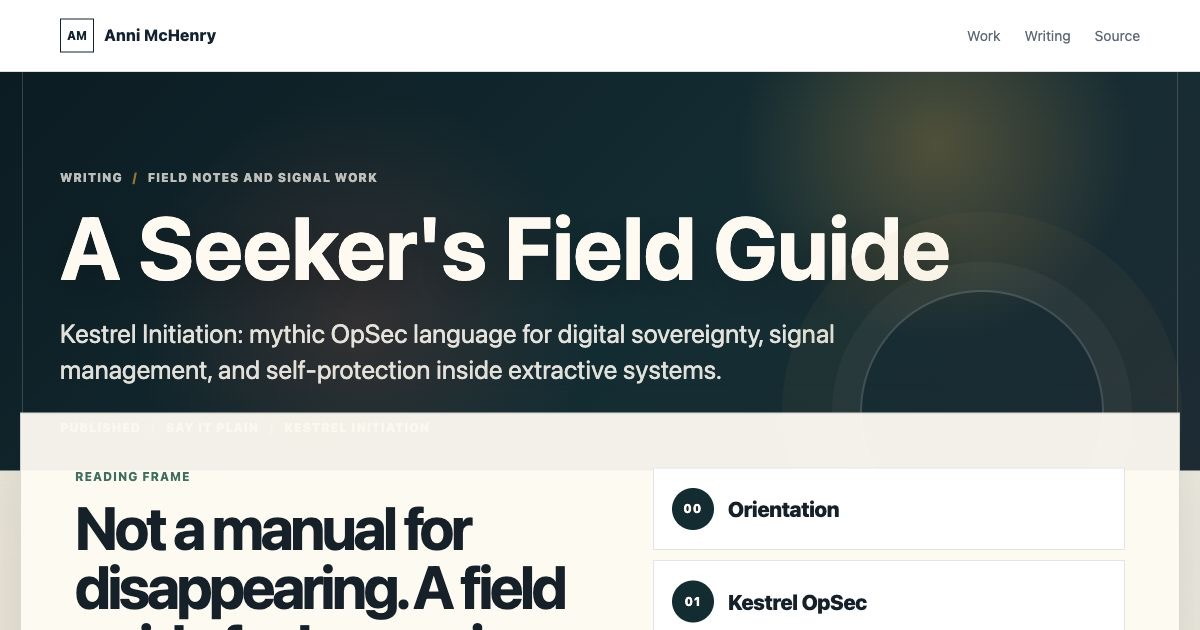
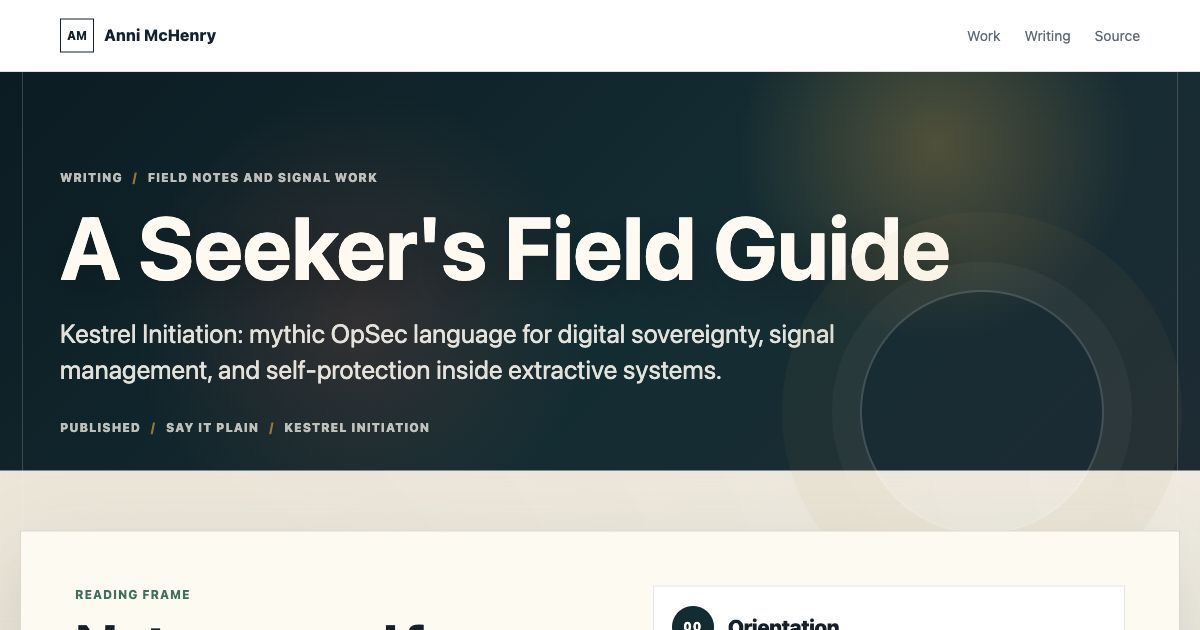
Fix seekers guide hero spacing

diff --git a/styles.css b/styles.css
@@ -3059,7 +3059,7 @@ h3 {
   gap: clamp(24px, 5vw, 56px);
   align-items: stretch;
   width: min(1180px, calc(100% - 40px));
-  margin: clamp(-58px, -5vw, -30px) auto 64px;
+  margin: clamp(34px, 5vw, 72px) auto 64px;
   padding: clamp(28px, 5vw, 54px);
   border: 1px solid rgba(8, 45, 51, 0.16);
   background: rgba(255, 250, 241, 0.95);
@@ -3266,7 +3266,7 @@ h3 {
   }
 
   .seeker-orientation {
-    margin-top: -28px;
+    margin-top: 32px;
   }
 }
 
